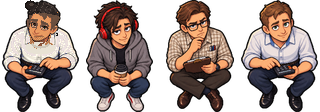
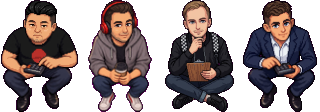
feat: персонажи по фото сотрудников через Gemini, статист Штази (0.18.0)

diff --git a/js/lines.js b/js/lines.js
@@ -103,13 +103,14 @@
     ],
     // Проходит мимо коллег
     coworker: {
-      aimashyn: 'Аймашын, отчёт к обеду! И пучок поправь.',
+      aimashyn: 'Аймашын, отчёт к обеду! И футболку с тесаком — на рубашку.',
       hlad: 'Хлад, сними наушники, я с тобой говорю!',
       shurik: 'Шурик, опять всё перепроверяешь? Молодец.',
       bleb: 'Блеб, нейросеть — это не повод не работать!',
       sirgey: 'Сиргей, ты на каком созвоне? Там тишина!',
       asel: 'Асель, я вижу Инстаграм в отражении очков!',
       yerzhan: 'Стажёр! Кофе сам себя не сварит!',
+      stazy: 'Штази, опять телефон от офисной розетки заряжаешь? Это банковское электричество!',
       tigran: 'Хм… Стол пустой, а табличка стоит. Кто тут сидит? Сквозняк какой-то.',
     },
     // Застал соседа из второго ряда — идёт отчитывать (Быкентию окно)
@@ -117,6 +118,7 @@
       sirgey: ['Сиргей! Созвон с закрытыми глазами — это сон!', 'Сиргей, это не «камера выключена», это ты храпишь!'],
       asel: ['Асель! Сторис в рабочее время — это нарушение комплаенса!', 'Асель, телефон — в стол!'],
       yerzhan: ['Ержан! Стажировка — не отпуск!', 'Стажёр, это что, танчики?! В банке?!'],
+      stazy: ['Штази! Офис — не место, чтобы отоспаться после ночи без света!', 'Штази, пауэрбанки заряжай дома! А, дома нет света… Всё равно нельзя!'],
     },
     // Ответы на жалобы Быкентия у двери кабинета
     complain: {
@@ -210,6 +212,7 @@
     sirgey: ['*кивает в пустоту*', 'Да-да, согласен. А что?', 'Меня слышно?.. Нет? Ну и ладно.'],
     asel: ['Как же всё надоело...', 'Кто опять поставил кондей на 16?!', 'Комплаенс не спит. Он просто закрыл глаза.', 'Всё по регламенту. Регламент — по настроению.', 'Опять подписали без визы…', 'Мне бы в отпуск. На Капчагай.'],
     tigran: ['Р-р-р… джан.', 'Ключ на старт…', 'Гагарин тоже с чего-то начинал.', '*поправляет флажки на столе*', 'На Байконуре уже бы запустили.'],
+    stazy: ['В «Пещере на Абая» опять вырубили свет. Третий день живу при свечах.', 'Ordnung muss sein. Но не в нашем ЖК.', 'Дома свет по графику. График — по настроению КСК.', 'Я на работу хожу погреться и зарядить телефон.', 'Соседи уже в чате ЖК пишут при свечке.', 'Лифт опять стоит. Девятый этаж — моя кардиотренировка.', 'Зато у нас в «Пещере» звёзды видно. Прямо из подъезда.', 'Бабушка из Караганды говорит: при Союзе свет был. Я не проверял.'],
     yerzhan: ['Я стажёр, мне можно.', 'Когда уже обед?..', 'А мне за переработку заплатят? Нет?', 'Стажировка — это опыт. Опыт — это кофе.', 'Мама спрашивает, когда повысят.', 'Я здесь учусь. Чему — пока не понял.'],
   };
 
@@ -217,6 +220,7 @@
   const slack = {
     sirgey: { sleep: ['*храпит на созвоне*', 'Хр-р... да, коллеги... хр-р...'], phone: ['*листает мемы с серьёзным лицом*'] },
     asel: { phone: ['*снимает сторис про жару*', 'Девочки, вы не поверите, что тут у нас!'], snack: ['*ест чипсы из-под стола*'] },
+    stazy: { sleep: ['*спит: дома всю ночь без света и без кондея*', 'Хр-р… аварийка… хр-р…'], phone: ['*заряжает три пауэрбанка сразу*', '*читает чат ЖК: «Свет дали?» — «Нет»*'] },
     yerzhan: { game: ['*играет в танчики*', 'Тащу! Тащу катку!'], sleep: ['*спит на клавиатуре*'] },
   };
   const whine = [
@@ -370,6 +374,11 @@
     ['sirgey', 'Автошка опять легла.', 'shurik', 'Записал. Двенадцатый раз за неделю.'],
     ['hlad', 'Асель, это по регламенту?', 'asel', 'По регламенту всё. Кроме нас.'],
     ['aimashyn', 'Кто пушил в пятницу вечером?', 'yerzhan', '…а что, так нельзя было?'],
+    ['asel', 'Штази, у тебя дома свет дали?', 'stazy', 'Дали. На сорок минут. Я успел погладить одну рубашку.'],
+    ['stazy', 'Сиргей, у тебя тоже комп не работает?', 'sirgey', 'У меня работает. Это я не работаю.'],
+    ['yerzhan', 'Штази, а почему «Пещера на Абая»?', 'stazy', 'Потому что свет там видели только застройщики. На рендере.'],
+    ['stazy', 'Шурик, можно у тебя переночевать? Опять отключение.', 'shurik', 'Можно. Но сначала сверю график отключений.'],
+    ['bleb', 'Штази, какая модель у твоего ЖК?', 'stazy', 'Бинарная: свет есть — 0, света нет — 1.'],
   ];
 
   // Д.Н. проходит мимо стола Тиграна — духа он не видит, только чувствует

diff --git a/scripts/qa.js b/scripts/qa.js
@@ -137,7 +137,7 @@ const { loadPlaywright } = require('./pw');
   // 12. Проверка начальника доходит до стола
   await page.evaluate(() => { NP_DEBUG.teleport(728, 150); NP_DEBUG.setBoss(706, 446, 'office'); });
   await page.keyboard.press('KeyE');
-  await page.evaluate(() => { NP_DEBUG.startInspection(); });
+  await page.evaluate(() => { NP_DEBUG.startInspection(true); });
   await page.screenshot({ path: path.join(outDir, '05-alarm.png') });
   await page.evaluate(() => NP_DEBUG.skip(14));
   st = await page.evaluate(() => NP_DEBUG.state);
@@ -443,13 +443,13 @@ const { loadPlaywright } = require('./pw');
   const prog = await page.evaluate(() => {
     localStorage.setItem('nepalsya.weekDone', 'false');
     NP_DEBUG.setDay(0); NP_DEBUG.restart();
-    const mon = { u: NP_DEBUG.unlocked, q: NP_DEBUG.eventQueue.length, remote: NP_DEBUG.coworkers.filter(c => c.away).length, statists: NP_DEBUG.coworkers.filter(c => (c.id === 'asel' || c.id === 'yerzhan') && !c.away).length, todo: NP_DEBUG.state.todo.map(t => t.id) };
+    const mon = { u: NP_DEBUG.unlocked, q: NP_DEBUG.eventQueue.length, remote: NP_DEBUG.coworkers.filter(c => c.away).length, statists: NP_DEBUG.coworkers.filter(c => ['asel', 'yerzhan', 'stazy'].includes(c.id) && !c.away).length, todo: NP_DEBUG.state.todo.map(t => t.id) };
     NP_DEBUG.setDay(3); NP_DEBUG.restart();
     const thu = { u: NP_DEBUG.unlocked, q: NP_DEBUG.eventQueue.length, away: NP_DEBUG.coworkers.filter(c => c.away).length, todo: NP_DEBUG.state.todo.map(t => t.id) };
     localStorage.setItem('nepalsya.weekDone', 'true');
     return { mon, thu };
   });
-  check('понедельник: только ядро (без событий, коллег, обеда, второго ряда)', prog.mon.q === 0 && !prog.mon.u.coworkers && !prog.mon.u.lunch && prog.mon.remote === 1 && prog.mon.statists === 2 && prog.mon.todo.includes('coffee1'), JSON.stringify(prog.mon));
+  check('понедельник: только ядро (без событий, коллег, обеда, второго ряда)', prog.mon.q === 0 && !prog.mon.u.coworkers && !prog.mon.u.lunch && prog.mon.remote === 1 && prog.mon.statists === 3 && prog.mon.todo.includes('coffee1'), JSON.stringify(prog.mon));
   check('четверг: второй ряд, летучка, события открыты', prog.thu.u.row2 && prog.thu.u.standup && prog.thu.q > 3 && prog.thu.away === 0 && prog.thu.todo.includes('majik'), JSON.stringify(prog.thu));
   await page.screenshot({ path: path.join(outDir, '24-thursday-card.png') });
 
@@ -479,9 +479,9 @@ const { loadPlaywright } = require('./pw');
     NP_DEBUG.setDay(0); NP_DEBUG.restart(); NP_DEBUG.clearEvents();
     const zones = NP_DEBUG.zones;
     const talk = NP_DEBUG.banterNow();
-    return { noChat: !zones.includes('chat_asel') && !zones.includes('chat_yerzhan'), sirgeyChat: zones.includes('chat_sirgey'), banter: window.NP_LINES.banter.length, talk };
+    return { noChat: !zones.includes('chat_asel') && !zones.includes('chat_yerzhan') && !zones.includes('chat_stazy'), sirgeyChat: zones.includes('chat_sirgey'), banter: window.NP_LINES.banter.length, talk };
   });
-  check('Асель и Ержан — статисты без болтовни', stat.noChat && stat.sirgeyChat, JSON.stringify(stat));
+  check('Асель, Ержан и Штази — статисты без болтовни', stat.noChat && stat.sirgeyChat, JSON.stringify(stat));
   check('перепалка соседей: реплика и ответ', stat.banter >= 10 && stat.talk.length >= 2, JSON.stringify(stat.talk));
 
   // 17:00: подсказка про план, если отстаёшь

diff --git a/game.js b/game.js
@@ -19,7 +19,7 @@
 
   function loadImage(src) { const i = new Image(); i.src = src; return i; }
   const img = {
-    vik: loadImage('assets/bykentiy-walk-v3.png'),
+    vik: loadImage('assets/bykentiy-walk-v4.png'),
     boss: loadImage('assets/boss-walk-v2.png'),
     coworkers: loadImage('assets/coworkers-v3.png'),
     extras: loadImage('assets/extras-v1.png'),
@@ -1511,8 +1511,8 @@
     if (rand() < 0.5) say('boss', pick(LINES.boss.stroll), 2.4, '#e8e2d0');
     nextBossCheck = (CFG.checkInterval[0] + rand() * (CFG.checkInterval[1] - CFG.checkInterval[0])) * 0.6 * diff().check;
   }
-  function startInspection() {
-    if (rand() < CFG.strollChance && !boss.warned) { startStroll(); return; }
+  function startInspection(force = false) {
+    if (!force && rand() < CFG.strollChance && !boss.warned) { startStroll(); return; }
     boss.warned = false;
     const raid = rand() < 0.3;
     boss.mode = raid ? 'raid' : 'desk';
@@ -2562,12 +2562,12 @@
       const gl = ctx.createRadialGradient(c.x, c.desk.y - 20, 4, c.x, c.desk.y - 20, 34);
       gl.addColorStop(0, 'rgba(150,210,255,0.35)'); gl.addColorStop(1, 'rgba(150,210,255,0)');
       ctx.fillStyle = gl; ctx.fillRect(c.x - 36, c.desk.y - 56, 72, 72);
-      drawStripFrame(sheet, 4, c.sprite, c.x, c.desk.y + 18 + Math.sin(t * 0.9) * 1.5, false);
+      drawStripFrame(sheet, Math.round(sheet.naturalWidth / 80), c.sprite, c.x, c.desk.y + 18 + Math.sin(t * 0.9) * 1.5, false);
       ctx.restore();
       if (Math.sin(t * 2.3 + 1) > 0.97) T('✦', c.x - 18 + Math.sin(t * 7) * 6, c.desk.y - 40, 7, '#cfe8ff', 'center', 700, FONT_SANS);
       return;
     }
-    drawStripFrame(sheet, 4, c.sprite, c.x, c.desk.y + 18 + bob, false);
+    drawStripFrame(sheet, Math.round(sheet.naturalWidth / 80), c.sprite, c.x, c.desk.y + 18 + bob, false);
     if (c.slack) {
       if (c.slack === 'phone' || c.slack === 'game') R(c.x - 6, c.desk.y - 6, 12, 7, 'rgba(120,220,255,0.35)');
       const y = c.desk.y - 44 + Math.sin(t * 3) * 1.5;

diff --git a/js/world.js b/js/world.js
@@ -62,6 +62,8 @@
     // Статисты: сидят всегда, говорят сами, болтать с ними нельзя
     { id: 'asel', name: 'Асель', role: 'Комплаенс', sprite: 0, sheet: 'extras', perk: null, deskIndex: 3, statist: true },
     { id: 'yerzhan', name: 'Ержан', role: 'Стажёр', sprite: 1, sheet: 'extras', perk: null, deskIndex: 4, statist: true },
+    // Казахстанский немец из ЖК «Пещера на Абая», где вечно нет света; сидит за сломанным компом
+    { id: 'stazy', name: 'Штази', role: 'Отчётность (живёт в «Пещере на Абая»)', sprite: 4, sheet: 'extras', perk: null, deskIndex: 2, statist: true },
     // Дух офиса: уволился, но место за ним. Не уходит, не отвлекается, Д.Н. его не замечает.
     { id: 'tigran', name: 'Тигран', role: 'Дух офиса (уволился, место занято)', sprite: 3, sheet: 'extras', perk: 'rocket', deskIndex: 1, ghost: true },
   ];

diff --git a/scripts/replace_sprite.py b/scripts/replace_sprite.py
@@ -16,12 +16,15 @@ px = src.load()
 for y in range(src.height):
     for x in range(src.width):
         r, g, b, a = px[x, y]
-        if r > 180 and b > 180 and g < 110:
+        if r > 170 and b > 170 and g < 120:
             px[x, y] = (0, 0, 0, 0)
 src = src.crop(src.getbbox())
 k = min(cw / src.width, ch / src.height)
 w, h = max(1, round(src.width * k)), max(1, round(src.height * k))
-small = src.resize((w, h), Image.NEAREST)
+# Сильное уменьшение (Gemini отдаёт ~1000 px): BOX сохраняет детали лица, альфу бинаризуем
+small = src.resize((w, h), Image.BOX if k < 0.5 else Image.NEAREST)
+a = small.getchannel('A').point(lambda v: 255 if v >= 128 else 0)
+small.putalpha(a)
 cell = Image.new('RGBA', (cw, ch), (0, 0, 0, 0))
 cell.paste(small, ((cw - w) // 2, ch - h), small)
 sheet = Image.open(sheet_path).convert('RGBA')

diff --git a/docs/ART_DIRECTION.md b/docs/ART_DIRECTION.md
@@ -20,11 +20,12 @@
 | Файл | Размер | Назначение |
 | --- | ---: | --- |
 | `assets/almaty-view-v1.png` | 1200×132 | Четыре окна 224×132 + балкон 304×132: вид на Алатау, город и Кок-Тобе. Вырезан из `office-background-pixel-v1.png` скриптом `scripts/make_panorama.py`, швы спрятаны под колоннами |
-| `assets/bykentiy-walk-v3.png` | 256×120 | 4 кадра Быкентия по референсу: волосы зализаны назад, хвостик, высокий лоб, щетина, голубые глаза. Используется в игре |
+| `assets/bykentiy-walk-v4.png` | 256×120 | С 0.18.0: 4 кадра Быкентия из Gemini (браузер, подписка) по фото и листу v3: графитовая рубашка, зализанные волосы с пучком, щетина. Исходник `assets/bykentiy-src.png`. Используется в игре |
+| `assets/bykentiy-walk-v3.png` | 256×120 | Предыдущая версия: волосы зализаны назад, хвостик, высокий лоб, щетина, голубые глаза |
 | `assets/bykentiy-walk-v2.png` | 256×120 | Предыдущая версия (исходник для v3) |
 | `assets/boss-walk-v2.png` | 424×134 | 4 кадра Директора Начальниковича **без усов** |
-| `assets/coworkers-v3.png` | 320×112 | 4 сидящих коллеги: Аймашын (казах, белая футболка, фейд, пучок с косичками, щетина, серьга), Хлад, Шурик, Блеб. Используется в игре |
-| `assets/extras-v1.png` | 320×112 | Второй ряд: Асель (горчичная блузка), стажёр Ержан (зелёное худи), Сиргей (рыжий), Тигран (без одежды, весь в гриме тигра: рыжий, полосы, белые грудь и морда, ушки-ободок, в кресле с игрушечной ракетой; рисуется полупрозрачным «духом» с голубым свечением). С 0.16.2 ячейка Тиграна сгенерирована через Antigravity CLI (`agy`, подписка Google AI Pro, без API-ключей), исходник — `assets/tigran-src.png` (пурпурный хромакей), вписан в 80×112 скриптом `scripts/replace_sprite.py` (удаление хромакея + nearest-neighbor) |
+| `assets/coworkers-v3.png` | 320×112 | 4 сидящих коллеги по фото сотрудников (0.18.0, Gemini в браузере, подписка): Аймашын (чёрная футболка с красным кругом, чёрные волосы назад), Хлад (серое худи, красные наушники), Шурик (чёрный бомбер, клетчатые лямки рюкзака), Блеб (тёмно-синий пиджак, белая рубашка). Исходники `assets/{aimashin,hlad,shurik,bleb}-src.png`. Используется в игре |
+| `assets/extras-v1.png` | 400×112 | Второй ряд: Асель (с 0.18.0 по фото: серый костюм в полоску, прозрачные очки, исходник `assets/assel-src.png`), стажёр Ержан (зелёное худи), Сиргей (рыжий), Тигран (без одежды, весь в гриме тигра: рыжий, полосы, белые грудь и морда, ушки-ободок, в кресле с игрушечной ракетой; рисуется полупрозрачным «духом» с голубым свечением). С 0.16.2 ячейка Тиграна сгенерирована через Antigravity CLI (`agy`, подписка Google AI Pro, без API-ключей), исходник — `assets/tigran-src.png` (пурпурный хромакей), вписан в 80×112 скриптом `scripts/replace_sprite.py` (удаление хромакея + nearest-neighbor). 5-я ячейка — Штази (0.18.0, Gemini по фото: серая футболка в волну, исходник `assets/stazy-src.png`) |
 | `assets/coworkers-v2.png` | 320×112 | Исходник для v3 и второго ряда |
 | `assets/firdom-emblem.svg` | SVG | Игровая щит-эмблема (HUD и шапка) |
 | `assets/*-v1.png` | — | Исходники генерации (walk-листы 2048×512, атлас 1230×1278, фон 1672×941). Игра их не грузит, это мастер-файлы для пайплайна |

diff --git a/docs/GAMEPLAY.md b/docs/GAMEPLAY.md
@@ -6,9 +6,9 @@
 
 Офис намеренно потрёпанный: протечка с ведром, скотч на ковролине, отвалившаяся плитка, перекошенные жалюзи, ксерокс «РАБОТАЕТ (ИНОГДА)». Вид на Заилийский Алатау и Кок-Тобе за окнами при этом прекрасен.
 
-Коллеги сидят в первом ряду на стульях за своими столами: **Аймашын** (тимлид разработки, казах в белой футболке, пучок и серьга), **Хлад** (скор-модели), **Шурик** (верификатор), **Блеб** (дата-сайентист). Стол Быкентия пятый. Быкентий отвечает за проект в **Маджикистане**, где всё работает плохо.
+Коллеги сидят в первом ряду на стульях за своими столами: **Аймашын** (тимлид разработки, казах в чёрной футболке), **Хлад** (скор-модели), **Шурик** (верификатор), **Блеб** (дата-сайентист). Стол Быкентия пятый. Быкентий отвечает за проект в **Маджикистане**, где всё работает плохо.
 
-Во втором ряду сидят соседи, которые то работают, то отвлекаются: **Сиргей** (автокредиты — «автошка», которая вечно падает; спит «на созвоне»), **Асель** (комплаенс, сторис и чипсы), **стажёр Ержан** (танчики, спит на клавиатуре). Асель и Ержан — **статисты**: сидят с понедельника, говорят сами, но болтать с ними нельзя. Сиргей до четверга на удалёнке. Там же ПК-кирпич и сломанный монитор.
+Во втором ряду сидят соседи, которые то работают, то отвлекаются: **Сиргей** (автокредиты — «автошка», которая вечно падает; спит «на созвоне»), **Асель** (комплаенс, сторис и чипсы), **стажёр Ержан** (танчики, спит на клавиатуре), **Штази** (казахстанский немец из ЖК «Пещера на Абая», где вечно нет света; отсыпается и заряжает пауэрбанки в офисе, сидит за сломанным компом). Асель, Ержан и Штази — **статисты**: сидят с понедельника, говорят сами, но болтать с ними нельзя. Сиргей до четверга на удалёнке. Там же ПК-кирпич и сломанный монитор.
 
 **Тигран** — дух офиса: человек в гриме тигра. Уволился в другую компанию, но место за ним. На столе флаги Армении и Казахстана, модель ракеты. Сидит всегда (удалёнка, обед и учения на него не действуют), не отвлекается, Д.Н. его не видит и лишь ворчит про «сквозняк». Раз в смену запускает игрушечную ракету (+3 кайфа, если ты рядом).
 

diff --git a/VERSION.md b/VERSION.md
@@ -1,10 +1,10 @@
 # Версия проекта
 
-Текущая версия: `0.17.0`
+Текущая версия: `0.18.0`
 
 Дата: `2026-09-25`
 
-Статус: playable vertical slice — Д.Н. гуляет по офису и даёт передышку после выговора, купольные камеры СБ, читаемость на любом экране, статисты и перепалки соседей, Тигран (дух офиса, спрайт из Antigravity), выговоры, план на день, прогрессия недели, сложность, альт-таб, достижения, музыка, автопилот и скорость времени, онбординг, биотуалет, Маджикистан, неделя из 5 дней, обед и пятничное пиво в «Мюнхене», второй ряд соседей, апгрейды за KPI-коины, ИИ со зрением, тач-управление.
+Статус: playable vertical slice — персонажи по фото сотрудников (Gemini) и статист Штази из «Пещеры на Абая», Д.Н. гуляет по офису и даёт передышку после выговора, купольные камеры СБ, читаемость на любом экране, статисты и перепалки соседей, Тигран (дух офиса, спрайт из Antigravity), выговоры, план на день, прогрессия недели, сложность, альт-таб, достижения, музыка, автопилот и скорость времени, онбординг, биотуалет, Маджикистан, неделя из 5 дней, обед и пятничное пиво в «Мюнхене», второй ряд соседей, апгрейды за KPI-коины, ИИ со зрением, тач-управление.
 
 ## Правило версий
 

diff --git a/CHANGELOG.md b/CHANGELOG.md
@@ -1,5 +1,14 @@
 # История изменений
 
+## [0.18.0] — 2026-09-25
+
+- **Персонажи по фото сотрудников.** Аймашын, Хлад, Шурик, Блеб, Асель и Быкентий перерисованы в Gemini в браузере (Nano Banana, подписка) по фото и образцу старого спрайта: лица, причёски и одежда с фото. У Хлада оставлены худи и красные наушники.
+- **Быкентий:** новый лист ходьбы `assets/bykentiy-walk-v4.png` (4 кадра, рубашка графитовая, зализанные волосы с пучком).
+- **Новый статист Штази** — казахстанский немец из ЖК «Пещера на Абая», где вечно нет света. Сидит за столом со сломанным компом во втором ряду, свои реплики, перепалки с соседями и выговоры от Д.Н. (зарядка пауэрбанков от офисной розетки). 5-я ячейка `assets/extras-v1.png` (лист расширен до 400×112, число кадров листа коллег теперь берётся из ширины).
+- `scripts/replace_sprite.py`: сильное уменьшение через BOX с бинаризацией альфы, порог хромакея шире (JPEG из Gemini). Исходники — `assets/*-src.png`.
+- Личные фото в `photo/` не коммитятся (`.gitignore`).
+- QA: 69 проверок, Штази — статист без болтовни.
+
 ## [0.17.0] — 2026-09-25
 
 ### Изменено (по плейтесту на ноутбуке и телефоне)

diff --git a/docs/CHECKLIST.md b/docs/CHECKLIST.md
@@ -60,3 +60,8 @@
 - ⏳ Поиграть самому на ноутбуке и телефоне (https://statsenko-na.github.io/ne-palysya/) и записать, что подправить
 - ⏳ Переименовать репозиторий в `ne-palis` (Settings), после этого обновить ссылки
 - ⏳ История git: старые имена и почты авторов остаются в коммитах — сделать репозиторий приватным или перенести в новый с чистой историей
+
+## 0.18: персонажи по фото
+
+- ✅ Аймашын, Хлад, Шурик, Блеб, Асель, Быкентий — лица и причёски по фото, одежда с фото (у Хлада своя) — Gemini в браузере, скриншот `.qa/24-thursday-card.png`
+- ✅ Штази — статист из «Пещеры на Абая» с шутками про свет (QA: статисты без болтовни)
